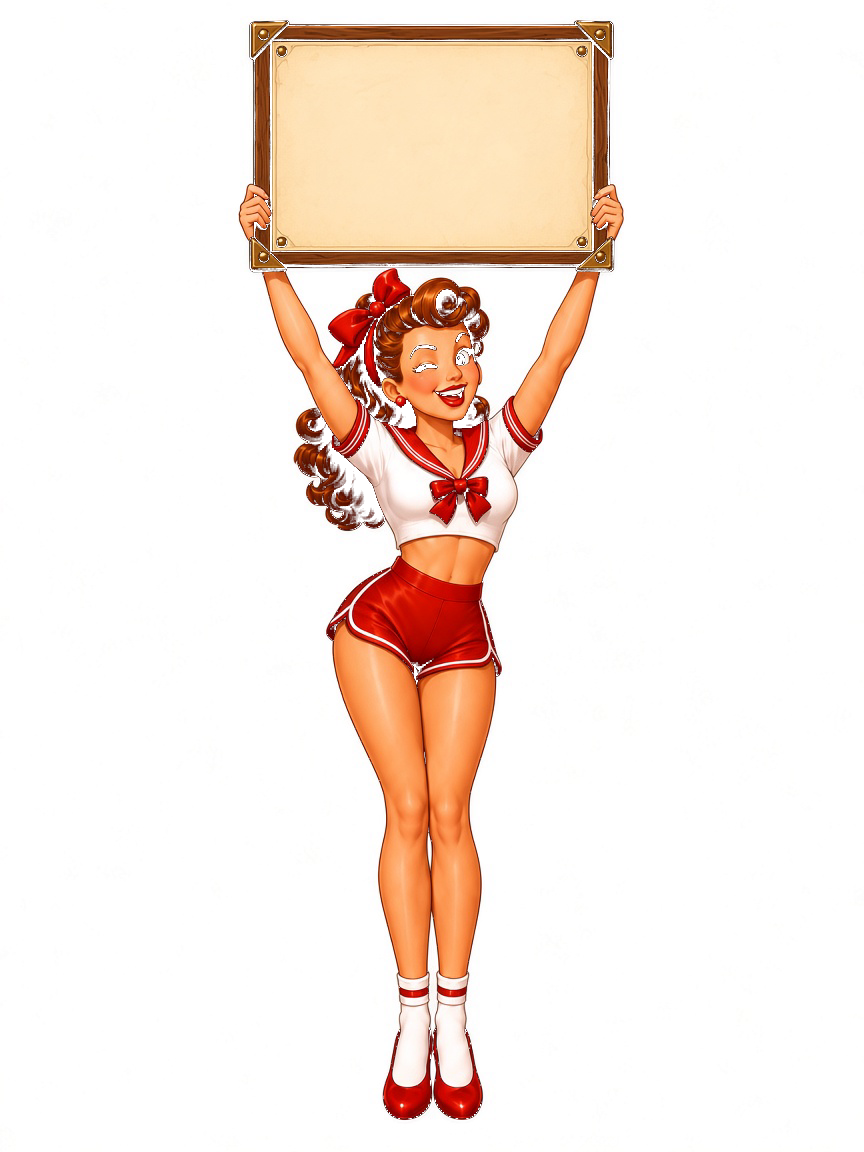
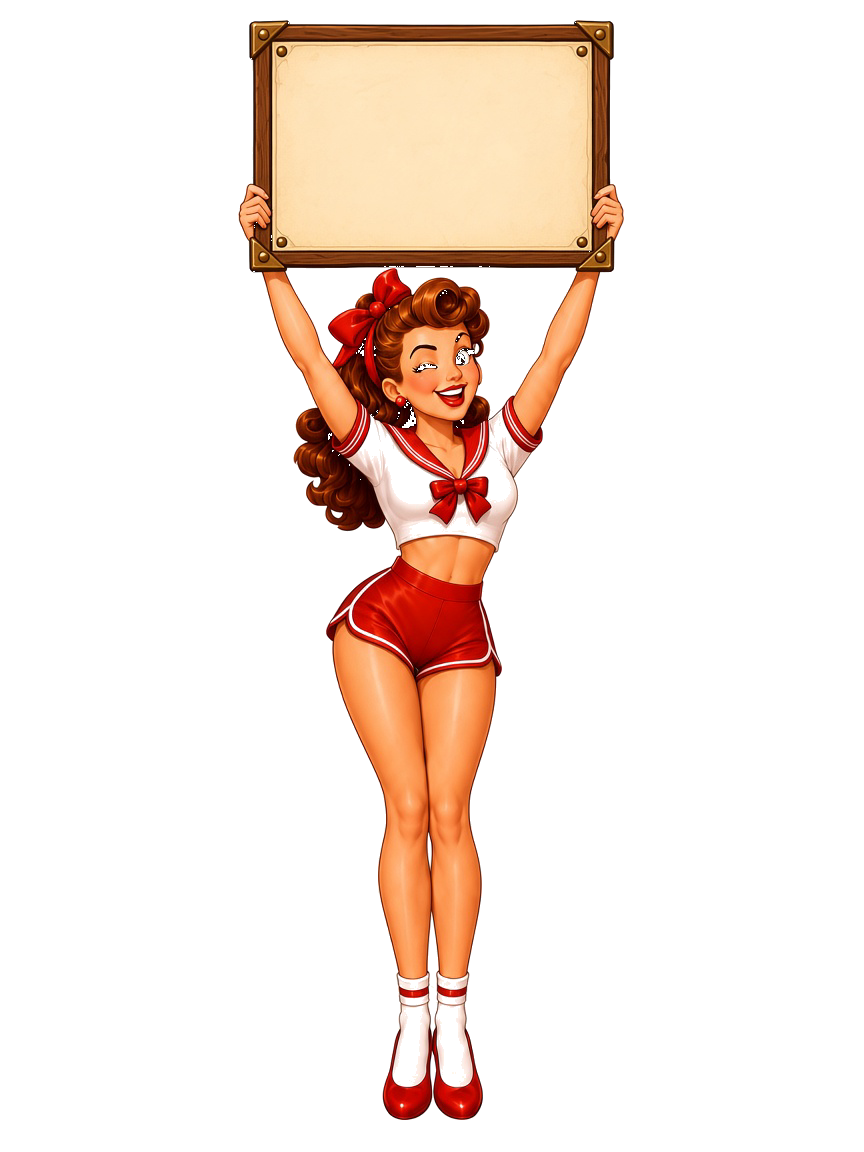
Clear black/white flash from pinup frames
Every cel now has a real transparent backdrop instead of opaque black or
white plates between animation frames.

diff --git a/public/pinup-preview.html b/public/pinup-preview.html
@@ -1,0 +1,35 @@
+<!doctype html>
+<html lang="it">
+<head>
+  <meta charset="utf-8" />
+  <title>Tizia cartello</title>
+  <style>
+    html, body { margin: 0; min-height: 100%; background: #100c0a; display: grid; place-items: center; font-family: Georgia, serif; color: #f2e6c8; }
+    .stage { position: relative; width: min(420px, 90vw); aspect-ratio: 3/4; }
+    .stage img {
+      position: absolute; inset: 0; width: 100%; height: 100%;
+      object-fit: contain; object-position: center bottom;
+      opacity: 0; animation: cel 1s linear infinite;
+    }
+    .stage img:nth-child(2) { animation-delay: 0.25s; }
+    .stage img:nth-child(3) { animation-delay: 0.5s; }
+    .stage img:nth-child(4) { animation-delay: 0.75s; }
+    @keyframes cel {
+      0%, 24.99% { opacity: 1; }
+      25%, 100% { opacity: 0; }
+    }
+    p { margin-top: 18px; opacity: 0.7; font-size: 14px; }
+  </style>
+</head>
+<body>
+  <div>
+    <div class="stage">
+      <img src="./art/ui/vs-pinup-1.png?v=pinup14" alt="" />
+      <img src="./art/ui/vs-pinup-2.png?v=pinup14" alt="" />
+      <img src="./art/ui/vs-pinup-3.png?v=pinup14" alt="" />
+      <img src="./art/ui/vs-pinup-4.png?v=pinup14" alt="" />
+    </div>
+    <p style="text-align:center">Loop come in gioco · cartello fermo</p>
+  </div>
+</body>
+</html>

diff --git a/src/ui/app.ts b/src/ui/app.ts
@@ -1268,10 +1268,10 @@ export class GameApp {
               <div class="vs-banner-wrap is-pinup">
                 <div class="pinup-mover">
                   <div class="pinup-stage">
-                    <img class="pinup-cel" src="./art/ui/vs-pinup-1.png?v=pinup13" alt="" />
-                    <img class="pinup-cel" src="./art/ui/vs-pinup-2.png?v=pinup13" alt="" />
-                    <img class="pinup-cel" src="./art/ui/vs-pinup-3.png?v=pinup13" alt="" />
-                    <img class="pinup-cel" src="./art/ui/vs-pinup-4.png?v=pinup13" alt="" />
+                    <img class="pinup-cel" src="./art/ui/vs-pinup-1.png?v=pinup14" alt="" />
+                    <img class="pinup-cel" src="./art/ui/vs-pinup-2.png?v=pinup14" alt="" />
+                    <img class="pinup-cel" src="./art/ui/vs-pinup-3.png?v=pinup14" alt="" />
+                    <img class="pinup-cel" src="./art/ui/vs-pinup-4.png?v=pinup14" alt="" />
                   </div>
                   <div class="round-sign">
                     <span class="round-sign-head"><span class="round-sign-kicker">${this.L('round')}</span><span class="round-sign-num">${run.round}</span></span>
